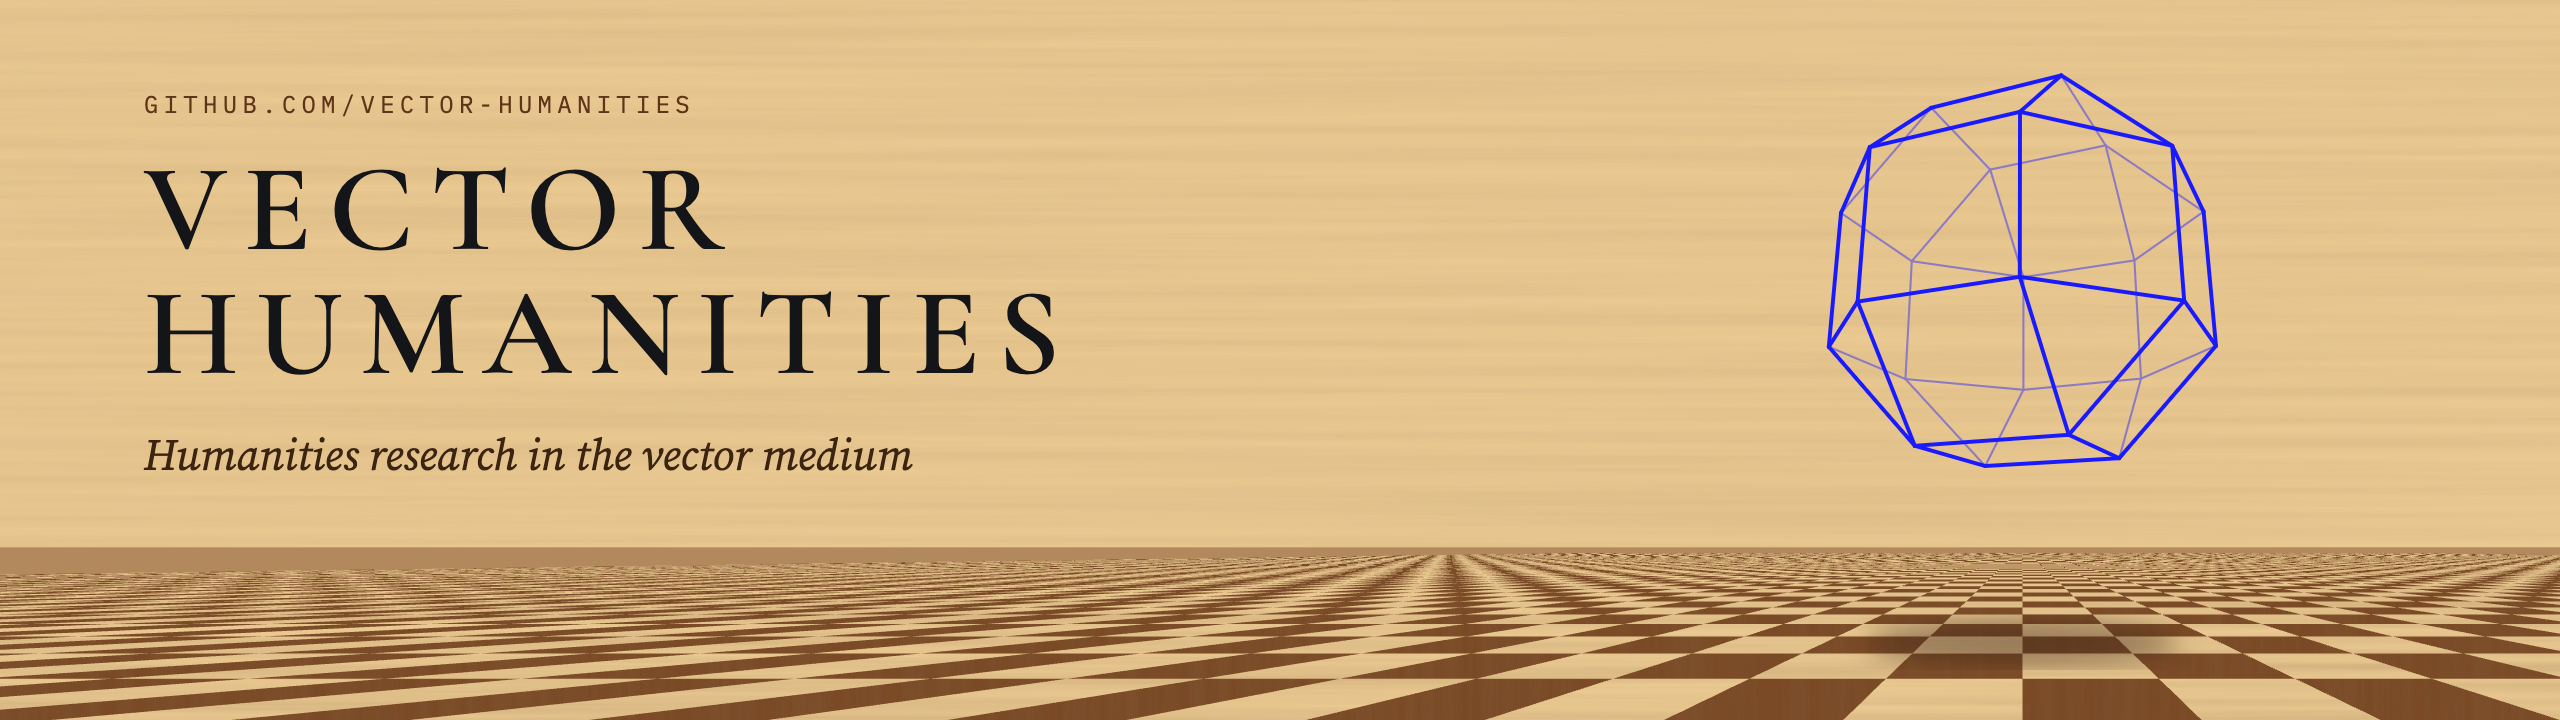
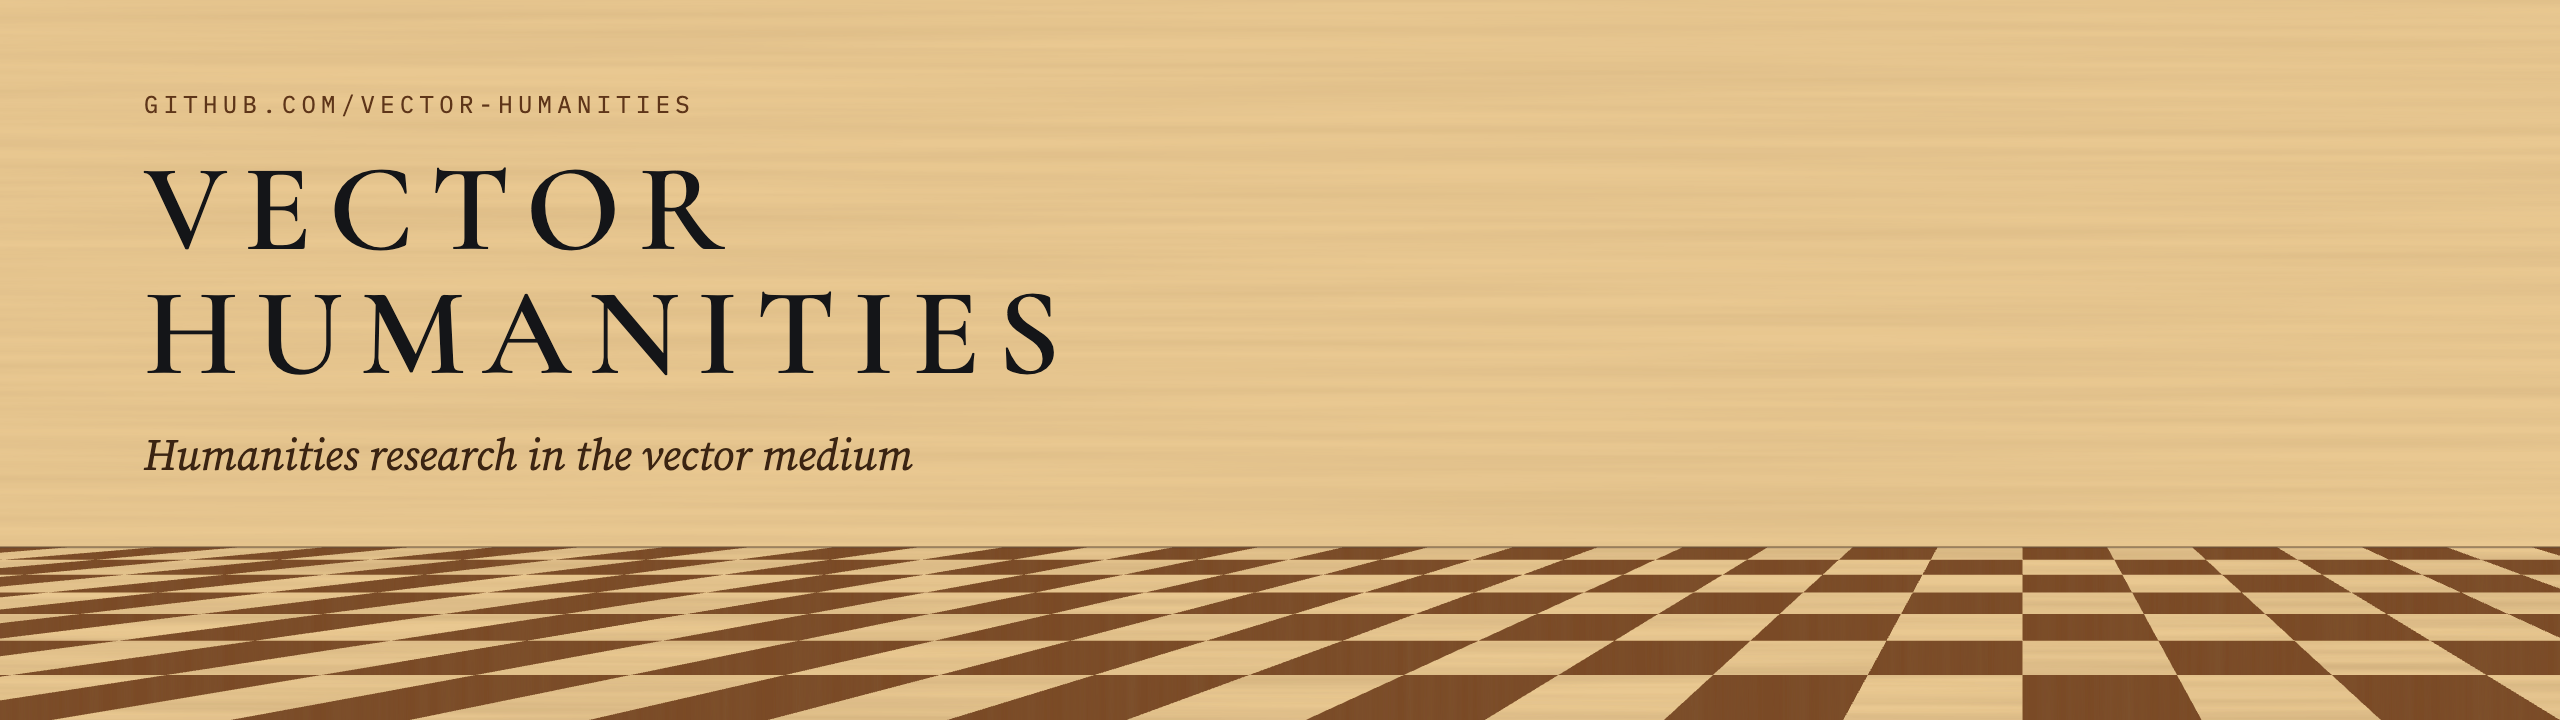
Finite intarsia pavement on a static layer, the solid on its own layer; tighter Current work card; dots thrown off in arcs

diff --git a/assets/intarsia.js b/assets/intarsia.js
@@ -66,7 +66,7 @@
 
   // ---------------------------------------------------------------- scene
 
-  var W, H, layout, polyG, shadowEl, beams = [], arrows = [], trails = [];
+  var W, H, layout, polyG, beams = [], arrows = [], trails = [];
 
   // points in motion: each runs along one edge's displacement, then takes another edge at the vertex
   var travellers = [];
@@ -122,7 +122,16 @@
       var cx = right + 24 + room / 2;
       layout = { hor: horY, vx: cx, px: cx, py: Math.max(12, horY * 0.07), ps: size, tile: W * 0.075 };
     }
-    var defs = el('defs', {}, svg);
+    // the wood is drawn once into its own layer behind the animation, so its filters never run again
+    var ground = hero.querySelector('#ground');
+    if (!ground) {
+      ground = document.createElementNS(NS, 'svg');
+      ground.id = 'ground'; ground.setAttribute('aria-hidden', 'true'); ground.setAttribute('preserveAspectRatio', 'none');
+      hero.insertBefore(ground, svg);
+    }
+    ground.setAttribute('viewBox', '0 0 ' + W + ' ' + H);
+    while (ground.firstChild) ground.removeChild(ground.firstChild);
+    var defs = el('defs', {}, ground);
     [['grainH', '0.0018 0.16', 3], ['grainV', '0.16 0.0018', 8]].forEach(function (g) {
       var f = el('filter', { id: g[0], x: 0, y: 0, width: '100%', height: '100%' }, defs);
       el('feTurbulence', { type: 'fractalNoise', baseFrequency: g[1], numOctaves: 4, seed: g[2] }, f);
@@ -132,33 +141,37 @@
     var soft = el('filter', { id: 'soft' }, defs);
     el('feGaussianBlur', { stdDeviation: 6 }, soft);
 
-    // wall
+    // wall, down to where it meets the floor
     var hor = layout.hor;
-    el('rect', { width: W, height: hor, fill: MAPLE }, svg);
-    el('rect', { width: W, height: hor, fill: MAPLE, filter: 'url(#grainH)', opacity: 0.45 }, svg);
+    el('rect', { width: W, height: hor, fill: MAPLE }, ground);
+    el('rect', { width: W, height: hor, fill: MAPLE, filter: 'url(#grainH)', opacity: 0.45 }, ground);
 
-    // pavement, tiles laid to the vanishing point with the distance-point method
-    el('rect', { y: hor, width: W, height: H - hor, fill: '#b2895c' }, svg);
-    var dist = layout.tile * 3.2, vx = layout.vx, dark = [], light = [];
-    function ty(k) { return hor + (H - hor) * dist / (dist + k * layout.tile); }
-    function xat(xb, y) { return vx + (xb - vx) * (y - hor) / (H - hor); }
-    var n0 = Math.floor(-vx / layout.tile) - 60, n1 = Math.ceil((W - vx) / layout.tile) + 60;
-    for (var k = 0; k < 90; k++) {
+    // a finite pavement of large tiles, laid in perspective from an eye above the floor's far edge;
+    // seven rows run from the front of the picture back to the wall (distance-point construction)
+    var ROWS = 7, t = layout.tile, vx = layout.vx;
+    var eye = hor - 0.9 * (H - hor);                 // eye level, above the line where floor meets wall
+    var dist = 0.9 * ROWS * t;                       // chosen so row ROWS lands exactly on that line
+    function ty(k) { return eye + (H - eye) * dist / (dist + k * t); }
+    function xat(xb, y) { return vx + (xb - vx) * (y - eye) / (H - eye); }
+    var q = (hor - eye) / (H - eye);                 // scale at the back edge: front columns needed to cover it
+    var n0 = Math.floor((vx - vx / q - vx) / t) - 1, n1 = Math.ceil((W - vx) / q / t) + 1;
+    var dark = [], light = [];
+    for (var k = 0; k < ROWS; k++) {
       var ya = ty(k + 1), yb = ty(k);
-      for (var q = n0; q < n1; q++) {
-        var x0 = vx + q * layout.tile, x1 = x0 + layout.tile;
+      for (var c = n0; c < n1; c++) {
+        var x0 = vx + c * t, x1 = x0 + t;
         var pts = [xat(x0, ya), ya, xat(x1, ya), ya, xat(x1, yb), yb, xat(x0, yb), yb].map(function (n) { return n.toFixed(1); });
-        var s = pts[0] + ',' + pts[1] + ' ' + pts[2] + ',' + pts[3] + ' ' + pts[4] + ',' + pts[5] + ' ' + pts[6] + ',' + pts[7];
-        ((q + k) % 2 === 0 ? dark : light).push(s);
+        ((c + k) % 2 === 0 ? dark : light).push(pts[0] + ',' + pts[1] + ' ' + pts[2] + ',' + pts[3] + ' ' + pts[4] + ',' + pts[5] + ' ' + pts[6] + ',' + pts[7]);
       }
     }
     [[dark, WALNUT, 'grainV'], [light, MAPLE, 'grainH']].forEach(function (set) {
-      var g1 = el('g', { fill: set[1] }, svg), g2 = el('g', { fill: set[1], filter: 'url(#' + set[2] + ')', opacity: 0.9 }, svg);
+      var g1 = el('g', { fill: set[1] }, ground), g2 = el('g', { fill: set[1], filter: 'url(#' + set[2] + ')', opacity: 0.9 }, ground);
       set[0].forEach(function (s) { el('polygon', { points: s }, g1); el('polygon', { points: s }, g2); });
     });
+    el('path', { d: 'M0,' + hor.toFixed(1) + ' H' + W, stroke: STRING, 'stroke-width': 1, opacity: 0.45 }, ground);
+    el('ellipse', { cx: layout.px, cy: ty(ROWS * 0.45), rx: layout.ps * 0.34, ry: layout.ps * 0.05,
+                    fill: STRING, opacity: 0.4, filter: 'url(#soft)' }, ground);
 
-    shadowEl = el('ellipse', { cx: layout.px, cy: hor + (H - hor) * 0.5, rx: layout.ps * 0.34, ry: layout.ps * 0.05,
-                               fill: STRING, opacity: 0.4, filter: 'url(#soft)' }, svg);
     polyG = el('g', {}, svg);
     beams = edges.map(function () { return el('path', { 'stroke-linecap': 'round' }, polyG); });
     trails = travellers.map(function () {

diff --git a/assets/style.css b/assets/style.css
@@ -104,7 +104,8 @@ a:hover { color: var(--blue-hover); text-decoration-color: currentColor; }
   /* the intarsia is a picture in wood: its text keeps the same colours in both themes */
   --h-ink: #141518; --h-muted: #3b2412; --h-label: #5e3519; --h-blue: #1a1aff;
 }
-#scene { position: absolute; inset: 0; width: 100%; height: 100%; display: block; }
+#scene, #ground { position: absolute; inset: 0; width: 100%; height: 100%; display: block; }
+#scene { will-change: transform; }   /* its own layer: repainting the solid never repaints the wood */
 .hero::after {
   content: ""; position: absolute; inset: 0; pointer-events: none;
   background: linear-gradient(90deg, rgba(233, 200, 145, .78) 0%, rgba(233, 200, 145, .45) 34%, rgba(233, 200, 145, 0) 58%);
@@ -164,20 +165,20 @@ h3 { font-family: var(--display); font-weight: 600; font-size: 1.5rem; line-heig
   background: var(--surface); border: 1px solid var(--rule); border-radius: 18px; box-shadow: var(--shadow);
 }
 .project .cover {
-  position: relative; padding: 44px 40px; background: var(--surface-alt);
-  border-right: 1px solid var(--rule); display: flex; flex-direction: column; justify-content: space-between; min-height: 380px;
+  position: relative; padding: 30px 32px; background: var(--surface-alt);
+  border-right: 1px solid var(--rule); display: flex; flex-direction: column; justify-content: space-between; min-height: 0;
 }
-.project .jp { font-family: var(--jp); font-size: clamp(2.4rem, 5vw, 3.6rem); line-height: 1.15; letter-spacing: .08em; margin: 0; writing-mode: vertical-rl; position: absolute; right: 36px; top: 40px; color: var(--ink); }
+.project .jp { font-family: var(--jp); font-size: clamp(2.2rem, 4.2vw, 3.1rem); line-height: 1.15; letter-spacing: .08em; margin: 0; writing-mode: vertical-rl; position: absolute; right: 30px; top: 28px; color: var(--ink); }
 .project .cover-text { max-width: 70%; }
-.project .cover h3 { font-size: 2rem; line-height: 1.1; margin-bottom: 12px; }
+.project .cover h3 { font-size: 1.8rem; line-height: 1.1; margin-bottom: 10px; }
 .project .cover .by { font-style: italic; color: var(--muted); margin: 0; }
 .tag { display: inline-block; font-family: var(--mono); font-size: .68rem; letter-spacing: .14em; text-transform: uppercase; padding: 5px 10px; border-radius: 999px; border: 1px solid var(--red); color: var(--red); }
-.project .body { padding: 40px; }
-.project .body p { margin: 0 0 1em; font-size: .98rem; }
-.stats { display: grid; grid-template-columns: repeat(2, 1fr); gap: 18px 24px; margin: 26px 0 0; padding: 22px 0 0; border-top: 1px solid var(--rule); }
+.project .body { padding: 28px 32px; }
+.project .body p { margin: 0 0 .8em; font-size: .93rem; line-height: 1.55; }
+.stats { display: grid; grid-template-columns: repeat(4, 1fr); gap: 12px 18px; margin: 18px 0 0; padding: 16px 0 0; border-top: 1px solid var(--rule); }
 .stats div { display: flex; flex-direction: column; }
-.stats b { font-variant-numeric: lining-nums; font-family: var(--display); font-weight: 600; font-size: 2rem; line-height: 1; color: var(--blue); }
-.stats span { font-family: var(--mono); font-size: .7rem; letter-spacing: .08em; color: var(--muted); margin-top: 6px; }
+.stats b { font-variant-numeric: lining-nums; font-family: var(--display); font-weight: 600; font-size: 1.6rem; line-height: 1; color: var(--blue); }
+.stats span { font-family: var(--mono); font-size: .64rem; letter-spacing: .06em; color: var(--muted); margin-top: 5px; line-height: 1.35; }
 .more { margin-top: 28px; color: var(--muted); font-style: italic; }
 
 /* Methods */
@@ -227,6 +228,7 @@ h3 { font-family: var(--display); font-weight: 600; font-size: 1.5rem; line-heig
   .arrow { height: 40px; }
   .arrow svg { transform: rotate(90deg); }
   .project { grid-template-columns: 1fr; }
+  .stats { grid-template-columns: repeat(2, 1fr); }
   .project .cover { border-right: none; border-bottom: 1px solid var(--rule); min-height: 300px; }
   .methods, .conventions, .related { grid-template-columns: 1fr; }
 }

diff --git a/brand/src/intarsia.py b/brand/src/intarsia.py
@@ -20,16 +20,18 @@ def defs():
             '<feColorMatrix values="0 0 0 0 0.24  0 0 0 0 0.13  0 0 0 0 0.05  0 0 0 0.38 -0.10"/>'
             '<feComposite in2="SourceGraphic" operator="in"/></filter>')
 
-def pavement(w, h, hor, vx, tile, rows=90, extra=60):
-    """Checkered floor below the horizon. tile is the width of a tile on the front edge."""
-    dist = tile * 3.2
-    base = h
+def pavement(w, h, hor, vx, tile, rows=7):
+    """A finite pavement of large tiles from the front of the picture back to the wall at y = hor,
+    laid in perspective from an eye above that line (distance-point construction)."""
+    eye = hor - 0.9 * (h - hor)
+    dist = 0.9 * rows * tile                     # puts row `rows` exactly on the wall line
     def ty(k):
-        return hor + (base - hor) * dist / (dist + k * tile * 1.0)
+        return eye + (h - eye) * dist / (dist + k * tile)
     def xat(xb, y):
-        return vx + (xb - vx) * (y - hor) / (base - hor)
+        return vx + (xb - vx) * (y - eye) / (h - eye)
+    q = (hor - eye) / (h - eye)
+    n0 = int(-vx / q / tile) - 2; n1 = int((w - vx) / q / tile) + 2
     a, b = [], []
-    n0 = int(-(vx / tile) - extra); n1 = int((w - vx) / tile + extra)
     for k in range(rows):
         ya, yb = ty(k + 1), ty(k)
         for i in range(n0, n1):
@@ -37,9 +39,9 @@ def pavement(w, h, hor, vx, tile, rows=90, extra=60):
             poly_ = [(xat(xa0, ya), ya), (xat(xa1, ya), ya), (xat(xa1, yb), yb), (xat(xa0, yb), yb)]
             pts = ' '.join(f'{x:.1f},{y:.1f}' for x, y in poly_)
             (a if (i + k) % 2 == 0 else b).append(f'<polygon points="{pts}"/>')
-    base_fill = f'<rect y="{hor:.1f}" width="{w}" height="{h - hor:.1f}" fill="#b2895c"/>'
-    return (base_fill + f'<g fill="{WALNUT}">{"".join(a)}</g><g fill="{WALNUT}" filter="url(#grainV)" opacity=".9">{"".join(a)}</g>'
-            f'<g fill="{MAPLE}">{"".join(b)}</g><g fill="{MAPLE}" filter="url(#grainH)" opacity=".9">{"".join(b)}</g>')
+    return (f'<g fill="{WALNUT}">{"".join(a)}</g><g fill="{WALNUT}" filter="url(#grainV)" opacity=".9">{"".join(a)}</g>'
+            f'<g fill="{MAPLE}">{"".join(b)}</g><g fill="{MAPLE}" filter="url(#grainH)" opacity=".9">{"".join(b)}</g>'
+            f'<path d="M0,{hor:.1f} H{w}" stroke="{STRING}" stroke-width="1" opacity=".45"/>'), ty(rows * 0.45)
 
 def wall(w, hor):
     return (f'<rect width="{w}" height="{hor}" fill="{MAPLE}"/>'
@@ -64,25 +66,26 @@ def hung_polyhedron(cx, top_y, size, palette, thread_from=0):
 
 WOOD_MARK = dict(beam='#1a1aff', hole='#f6f2e9', thread=STRING, accent='#ff4a24')
 
-def scene(w, h, hor_frac=0.62, vx_frac=0.72, poly_frac=(0.72, 0.10, 0.62), tile_frac=0.11, shadow=True, shadow_frac=0.55):
+def scene(w, h, hor_frac=0.62, vx_frac=0.72, poly_frac=(0.72, 0.10, 0.62), tile_frac=0.11, shadow=True, shadow_frac=0.55, solid=True):
     hor = h * hor_frac
     vx = w * vx_frac
     px, py, ps = w * poly_frac[0], h * poly_frac[1], h * poly_frac[2]
-    pm, P = hung_polyhedron(px, py, ps, WOOD_MARK)
+    pm, P = hung_polyhedron(px, py, ps, WOOD_MARK) if solid else ('', [])
+    floor, shadow_y = pavement(w, h, hor, vx, w * tile_frac)
     ys = [p[1] for p in P]
     sh = ''
-    if shadow:
+    if shadow and solid:
         # a soft shadow on the floor under the hung solid
-        sy = hor + (h - hor) * shadow_frac
+        sy = shadow_y
         sh = (f'<ellipse cx="{px:.1f}" cy="{sy:.1f}" rx="{ps * 0.34:.1f}" ry="{ps * 0.05:.1f}" fill="{STRING}" opacity=".45" filter="url(#soft)"/>')
     d = defs() + '<filter id="soft"><feGaussianBlur stdDeviation="6"/></filter>'
-    return (f'<defs>{d}</defs>{wall(w, hor)}<g>{pavement(w, h, hor, vx, w * tile_frac)}</g>{sh}'
+    return (f'<defs>{d}</defs>{wall(w, hor)}<g>{floor}</g>{sh}'
             f'{pm}')
 
 if __name__ == '__main__':
     W, H = 1280, 360
     banner = (f'<svg xmlns="http://www.w3.org/2000/svg" viewBox="0 0 {W} {H}" width="{W}" height="{H}">'
-              + scene(W, H, hor_frac=0.76, vx_frac=0.79, poly_frac=(0.79, 0.04, 0.64), tile_frac=0.07, shadow_frac=0.55) + '</svg>')
+              + scene(W, H, hor_frac=0.76, vx_frac=0.79, poly_frac=(0.79, 0.04, 0.64), tile_frac=0.07, shadow_frac=0.55, solid=False) + '</svg>')
     html = ('<!doctype html><meta charset="utf-8"><link rel="stylesheet" href="https://fonts.googleapis.com/css2?family=Cormorant+Garamond:wght@600&family=Source+Serif+4:ital,opsz@1,8..60&family=IBM+Plex+Mono&display=swap">'
             '<style>body{margin:0}.b{position:relative;width:1280px;height:360px;overflow:hidden}'
             '.t{position:absolute;left:72px;top:44px;color:#141518}'

diff --git a/brand/README.md b/brand/README.md
@@ -1,6 +1,6 @@
 # Vector Humanities brand kit
 
-The mark is the rhombicuboctahedron from Luca Pacioli's *De divina proportione* (1509), drawn by Leonardo, here as a wireframe: visible edges bold, hidden edges thin and pale. It stands on a square face, turned 23° and seen 21° from above (a canonical three-quarter view, with no face within 8° of edge-on). The banner, social card and site hero set it hovering over an intarsia pavement in perspective, after the inlaid-wood panels of Fra Giovanni da Verona. On the site it turns slowly, can be spun by dragging, and five faint white points travel along its edges; spun hard, the points are thrown off, fall and return.
+The mark is the rhombicuboctahedron from Luca Pacioli's *De divina proportione* (1509), drawn by Leonardo, here as a wireframe: visible edges bold, hidden edges thin and pale. It stands on a square face, turned 23° and seen 21° from above (a canonical three-quarter view, with no face within 8° of edge-on). The social card and site hero set it hovering over an intarsia pavement in perspective (the README banner shows the pavement alone), after the inlaid-wood panels of Fra Giovanni da Verona. On the site it turns slowly, can be spun by dragging, and five faint white points travel along its edges; spun hard, the points are thrown off, fall and return.
 
 | File | Use |
 |:--|:--|
